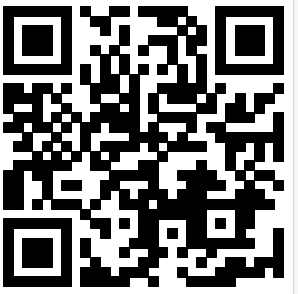
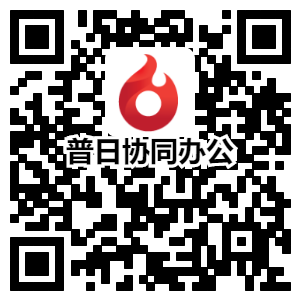
[完美][app-im][icmp-474] 修改二维码、下载地址、关于我们页面文字 (#377)
* 替换二维码和下载地址

* 图

diff --git a/custom_contents/pr/pages/setting/about/about.html b/custom_contents/pr/pages/setting/about/about.html
@@ -1,0 +1,23 @@
+<ion-header>
+  <ion-navbar>
+    <ion-title>{{'ABOUT_US' | translate}}</ion-title>
+  </ion-navbar>
+</ion-header>
+<ion-content class="content-gray-new">
+  <div class="user-head-image-div">
+    <img src="./assets/images/proper_logo.png">
+  </div>
+  <p>{{'PROPER_PALM_OA' | translate}}</p>
+  <ion-list>
+    <!--无关内容先屏蔽-->
+    <!-- <button id="e2e-feedback" ion-item [navPush]="feedbackPage">
+      {{'FEEDBACK' | translate}}
+    </button> -->
+    <button id="e2e-downloadAddress" ion-item [navPush]="downloadAddressPage">
+      {{'APP_DOWNLOAD_ADDRESS' | translate}}
+    </button>
+    <button id="e2e-proper" ion-item [navPush]="properPage">
+      {{'ABOUT_PROPER' | translate}}
+    </button>
+  </ion-list>
+</ion-content>
